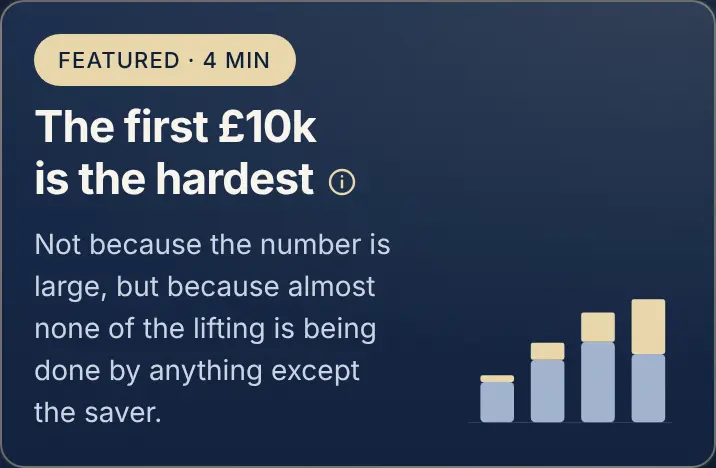
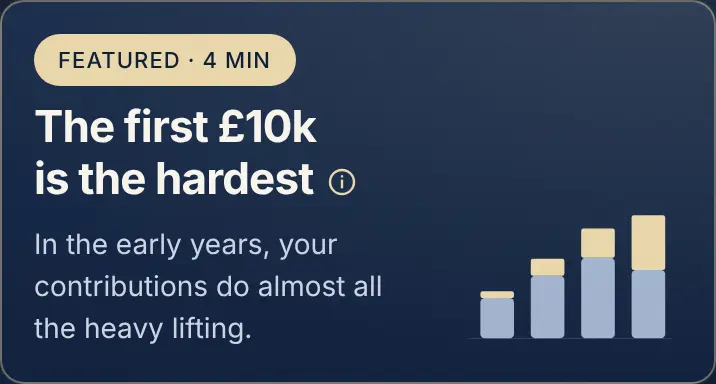
Articles, phones: shorter teaser on the featured card
shortTeaser in articles.json, shown on phones only; the full teaser stays
for screen readers and on desktop.

Claude-Session: https://claude.ai/code/session_015wx5SxX2gBEycz1xZd8Pnn

diff --git a/articles.html b/articles.html
@@ -250,7 +250,9 @@
   function drawFeatured() {
     feat.querySelector('[data-al="tag"]').innerHTML = 'Featured<span class="al-st"> &middot; ' + esc(featured.stage) + '</span><span class="al-ph"> &middot; ' + esc(mins(featured)) + '</span>';
     feat.querySelector('[data-al="title"]').innerHTML = '<a class="al-a" href="' + T.urlFor(featured) + '">' + title(featured) + '</a>' + info(featured);
-    feat.querySelector('[data-al="teaser"]').textContent = featured.teaser;
+    // A shorter teaser on phones where there is one; the full one stays for screen readers.
+    feat.querySelector('[data-al="teaser"]').innerHTML = featured.shortTeaser ?
+      '<span class="al-tf">' + esc(featured.teaser) + '</span><span class="al-ts" aria-hidden="true">' + esc(featured.shortTeaser) + '</span>' : esc(featured.teaser);
     feat.querySelector('[data-al="readif"]').innerHTML = readIf(featured);
     feat.querySelector('[data-al="meta"]').innerHTML = meta(featured);
     feat.querySelector('[data-al="art"]').innerHTML = art(featured, true);
